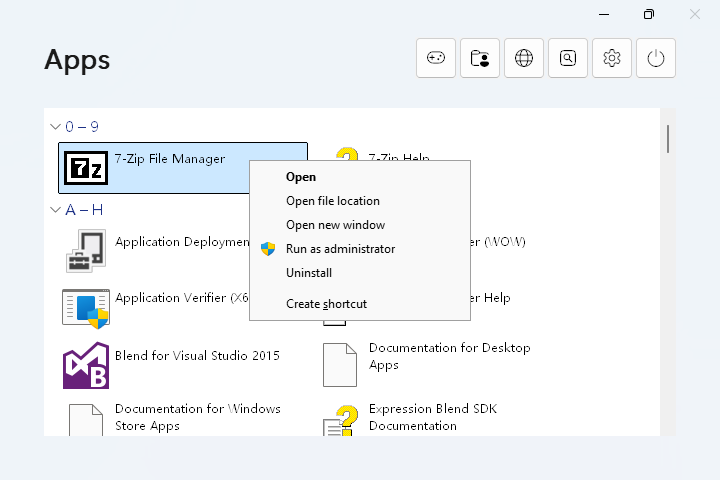
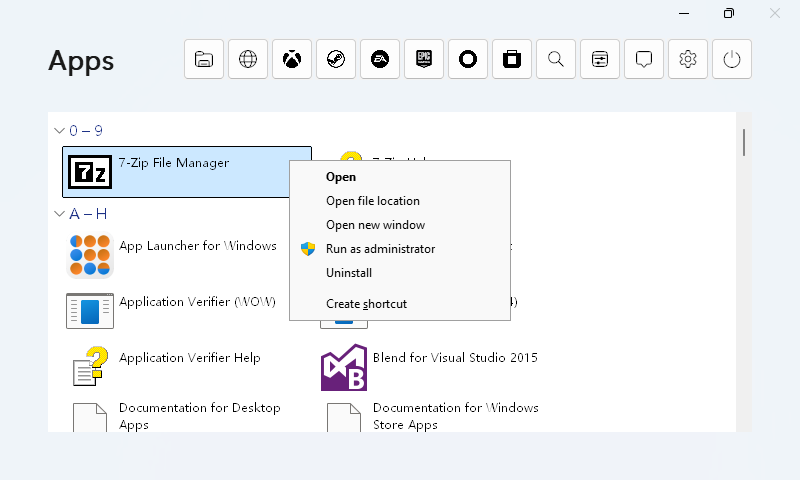
- Bump version to 26.32.14370.0. - Update the resource file. - Update README.md and related images. - Add NOTICE.md.

diff --git a/README.md b/README.md
@@ -14,22 +14,27 @@
 
 ## Highlights
 
-- Supports **setting it as home app** on devices compatible with the **FSE[^1]** feature (see "System Requirements").
-- Supports launching **any** app (including non-game apps) **under FSE[^1]**, eliminating the need to switch back and forth between FSE[^1] and desktop. It brings the experience **closer to tablet mode in Windows 10**.
-- Provides the **native right-click menu**, with suppport for "Run as administrator", "Open new window", "Open file location", "Uninstall", etc. It can be used as a substitute to the all apps list of Start Menu.
-- **[New]** Provides a set of buttons for quick access to **commonly used features[^2]**.
-- **[New]** Provides native support for touch screen, high DPI, and dark mode.
+- Supports **setting it as home app** on devices compatible with the **FSE[^1]** feature (see "[System Requirements](#System Requirements)").
+- Launch **any** app (including non-game apps) **under FSE[^1]**, eliminating the need to switch back and forth between FSE[^1] and desktop. **Brings the experience closer to tablet mode in Windows 10**.
+- Quick access to **popular gaming platforms and missing desktop features[^2]**.
+- **Native context menu** with suppport for "Run as administrator", "Open new window", "Open file location", "Uninstall", etc. A substitute to the all apps list of Start Menu.
+- Fix a major design flaw dating back to Windows 8 - **it has a power button!** But the Xbox app does not have that ;D
+- Native support for touch screen, high DPI, dark mode, and Mica.
+
+<a id="System Requirements"></a>
 
 ## System Requirements
 
 #### Minimum requirements
 
-- Windows 11, version 22H2+
+- Windows 11, version 21H2+
 
-#### Other requirements (if you intend to set the application as home app of full screen experience)
+#### Other requirements (if you intend to set it as home app of FSE[^1])
 
 - Windows 11, version 25H2+
 - The device is a gaming handheld
+
+Portable Edition does not support setting as home app of FSE[^1].
 
 ## Screenshots
 
@@ -41,12 +46,14 @@
 
 ## Installation and Configuration
 
+### Full Edition
+
 #### 1. Download package from Github
 
-- Go to the [Releases](https://github.com/La-La-Chicken/FSEAppLauncher/releases/latest) page, download the archive below the Assets section.
+- Go to the [Releases](https://github.com/La-La-Chicken/FSEAppLauncher/releases/latest) page, download the archive of Full Edition below the Assets section.
 <p align="center">
  <picture>
-  <img src="./doc/images/readme/DownloadReleaseArchive_OpenSource.png" />
+  <img src="./doc/images/readme/DownloadFullEditionArchive_OpenSource.png" />
  </picture>
 </p>
 
@@ -109,21 +116,34 @@
  </picture>
 </p>
 
+### Portable Edition
+
+Go to the [Releases](https://github.com/La-La-Chicken/FSEAppLauncher/releases/latest) page, download Portable Edition (*.exe) below the Assets section. You can directly run the application without installation and configuration.
+
+Portable Edition does not support setting as home app of FSE[^1].
+
+<p align="center">
+ <picture>
+  <img src="./doc/images/readme/DownloadPortableEdition_OpenSource.png" />
+ </picture>
+</p>
+
 ## What's new
 
-#### Current - Version 26.30.1440.0 (March 2026)
+#### Current - Version 26.32.14370.0
 
-- Added a set of buttons for quick access to commonly used features.
-- Now the App Launcher UI no longer covers the taskbar.
-- Fixed an issue where the App Launcher UI would not automatically hide after launching an app in some cases.
-- Updated to Per-Monitor v2 DPI awareness mode to adapt to dynamic DPI changes.
-- Adapted to dynamic light / dark mode changes.
-- Added backward compatibility for Windows 11, version 22H2 and 23H2.
+- Added the unpackaged Portable Edition (does not support setting as home app of FSE).
+- Added more buttons for quick access to popular game platforms and desktop features.
+- Replaced the Command Palette button with the Search button to provide a consistent experience with the desktop environment. On eligible devices, it launches Copilot or a user-specified AI app.
+- The App Launcher UI is no longer forced to be maximized, no longer topmost, and no longer minimized when losing focus.
+- Added touch-friendly resizing borders for non-maximized windows.
+- Added an About box.
+- Added backward compatibility for Windows 11, version 21H2.
 
 
 ## Developing and debugging
 
-Use the toolchain to develop:
+Use the toolchain to develop this project:
 
 - Windows 10, version 1607+
 - Microsoft Visual Studio 2017+
@@ -132,7 +152,7 @@ Use the toolchain to develop:
 		- Windows 10 SDK (10.0.19041)
 		- C++ MFC development tools
 
-**Windows 11, version 22H2+ is required to run or debug the packaged application.**
+Windows 11, version 21H2+ is required to run or debug the application.
 
 ## Contributing
 
@@ -148,8 +168,10 @@ This project is licensed under the Unlicense.
 
 This means unlicensed works, modifications, and larger works may be distributed under different terms and without source code.
 
+[Notices and Information](NOTICE.md)
+
 
 
 [^1]:Also known as "Xbox Handheld Mode".
-[^2]:The "Xbox" feature requires the latest version of [Game Bar](https://apps.microsoft.com/detail/9NZKPSTSNW4P), [Xbox app](https://apps.microsoft.com/detail/9MV0B5HZVK9Z) and [Gaming Services](https://apps.microsoft.com/detail/9MWPM2CQNLHN). The "Command Palette" feature requires the latest version of [Microsoft PowerToys](https://apps.microsoft.com/detail/XP89DCGQ3K6VLD).
+[^2]:The "Xbox" feature requires the latest version of [Game Bar](https://apps.microsoft.com/detail/9NZKPSTSNW4P), [Xbox app](https://apps.microsoft.com/detail/9MV0B5HZVK9Z) and [Gaming Services](https://apps.microsoft.com/detail/9MWPM2CQNLHN). The "Steam Big Picture Mode" feature requires the latest version of [Steam](https://store.steampowered.com/about/). The "EA" feature requires the latest version of [EA app](https://www.ea.com/ea-app#downloads). The "Epic Games Launcher" feature requires the latest version of [Epic Games Launcher](https://apps.microsoft.com/detail/XP99VR1BPSBQJ2). The "GOG Galaxy" feature requires the latest version of [GOG Galaxy](https://apps.microsoft.com/detail/XPFFXW40W60KCF). The "Microsoft Store" feature requires the latest version of [Microsoft Store](https://apps.microsoft.com/detail/9WZDNCRFJBMP).
 [^3]:If your operating system version is lower than Windows 11, version 25H2, or your device is not a gaming handheld, you may not see "Full screen experience", and some options may not appear.

diff --git a/NOTICE.md b/NOTICE.md
@@ -1,0 +1,14 @@
+# NOTICES AND INFORMATION
+
+This software (FSE App Launcher) is a third-party tool designed to quickly launch various applications and invoke system features. We are not affiliated, associated, authorized, endorsed by, or in any way officially connected with any of the companies, organizations, or individuals mentioned below.
+
+All trademarks, service marks, trade names, product names, and logos appearing in this software, whether referenced by icon, name, or description, are the property of their respective owners. The use of these marks is for identification purposes only and does not imply endorsement by the trademark holders.
+
+- **EA** and the **EA logo** are trademarks of **Electronic Arts Inc.**
+- **Epic**, **Epic Games**, **Epic Games Store**, and the **Epic Games Store logo** are trademarks and/or registered trademarks of **Epic Games**. All other trademarks are the property of their respective owners.
+- **GOG GALAXY** and the **GOG GALAXY logo** are trademarks or registered trademarks of **GOG sp. z o.o.** in the EU and/or other countries.
+- **Microsoft**, **Microsoft Store**, the **Microsoft Store logo**, **Windows**, **Xbox**, and the **Xbox logo** are trademarks of the **Microsoft** group of companies.
+- **Steam** and the **Steam logo** are trademarks and/or registered trademarks of **Valve Corporation** in the U.S. and/or other countries.
+
+**Disclaimer:**
+This software is provided "AS IS", without warranty of any kind, express or implied. Use of any third-party trademarks is for nominative and referential purposes only.
